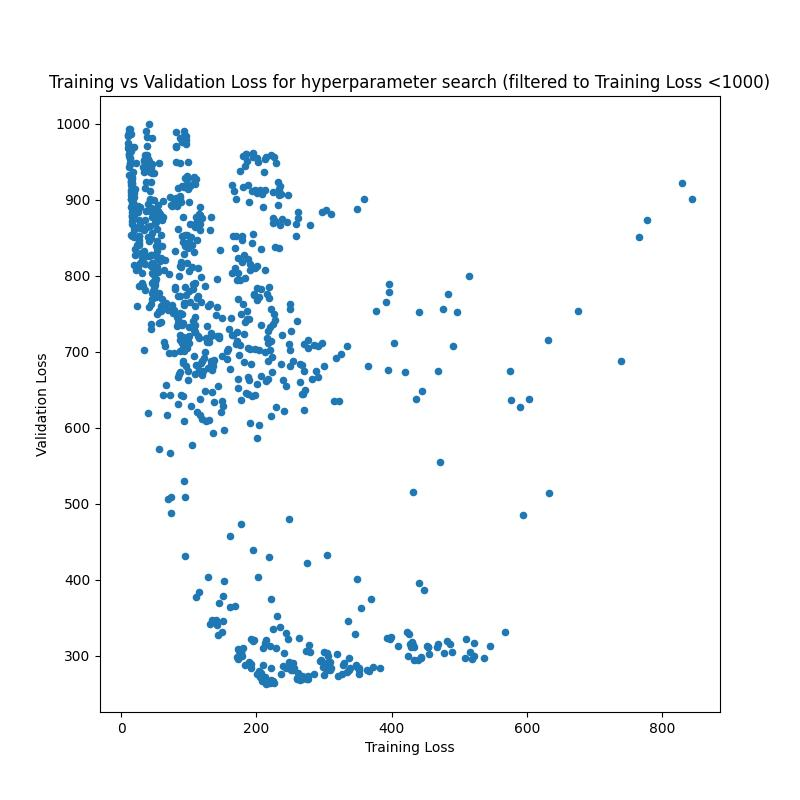
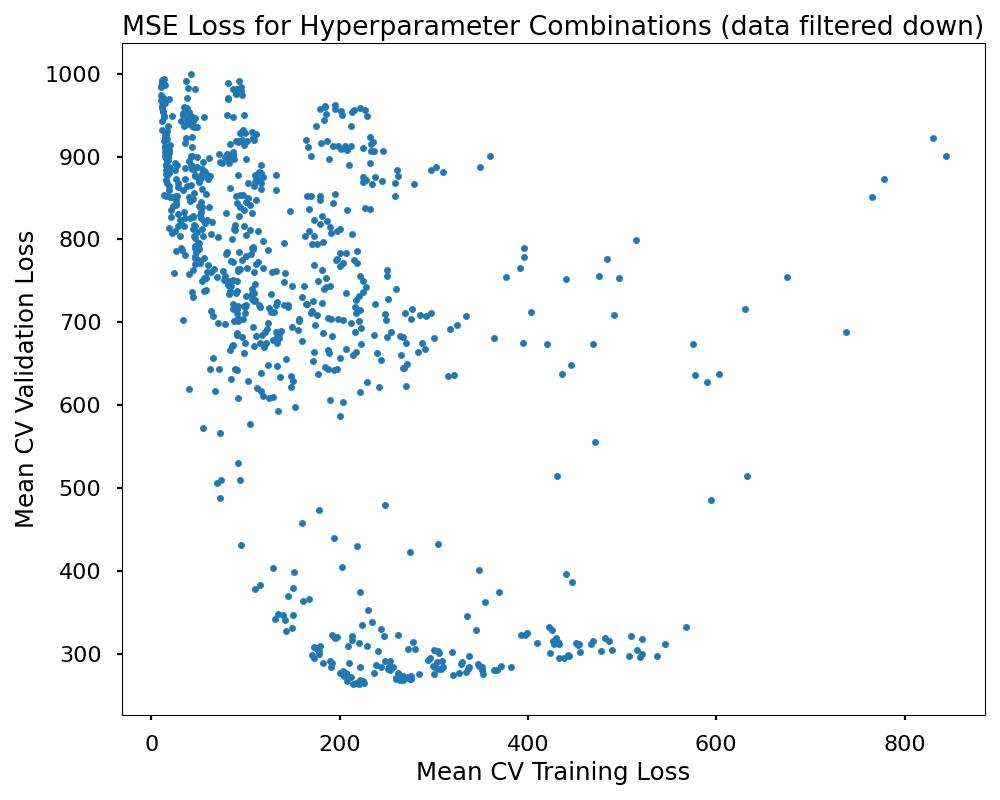
Finish hyperparam search and model selection sections of readme

diff --git a/Model_selection.py b/Model_selection.py
@@ -1,11 +1,10 @@
-
 import pandas as pd
-
 import matplotlib.pyplot as plt
+import seaborn as sns
 
-##########
+plt.style.use("seaborn-v0_8-poster")
+
 # Load back in the results
-##########
 df = pd.read_csv("../Data/hyper_param_results.csv")
 df.head()
 
@@ -14,11 +13,12 @@ df_filtered = df[df['Mean_fold_Vloss'] < 1000]
 df_filtered.reset_index()
 
 # scatter train and val loss
-plt.figure(figsize=(8,8))
+plt.figure(figsize=(10,8))
 plt.scatter(x=df["Mean_fold_Tloss"], y=df["Mean_fold_Vloss"], s=20)
-plt.title("Training vs Validation Loss for hyperparameter search")
-plt.xlabel("Training Loss")
-plt.ylabel("Validation Loss")
+plt.title("MSE Loss for Hyperparameter Combinations")
+plt.xlabel("Mean CV Training Loss")
+plt.ylabel("Mean CV Validation Loss")
+plt.tight_layout()
 plt.savefig("./figs/search_results_all.jpg")
 plt.show()
 
@@ -27,11 +27,12 @@ plt.show()
 df_filtered = df[df['Mean_fold_Vloss'] < 1000]
 df_filtered.reset_index()
 # scatter train and val loss
-plt.figure(figsize=(8,8))
+plt.figure(figsize=(10,8))
 plt.scatter(x=df_filtered["Mean_fold_Tloss"], y=df_filtered["Mean_fold_Vloss"], s=20)
-plt.title("Training vs Validation Loss for hyperparameter search (filtered to Training Loss <1000)")
-plt.xlabel("Training Loss")
-plt.ylabel("Validation Loss")
+plt.title("MSE Loss for Hyperparameter Combinations (data filtered down)")
+plt.xlabel("Mean CV Training Loss")
+plt.ylabel("Mean CV Validation Loss")
+plt.tight_layout()
 plt.savefig("./figs/search_results_filtered.jpg")
 plt.show()
 
@@ -41,11 +42,12 @@ df_possible = df[df['Mean_fold_Vloss'] < 300]
 df_possible = df_possible[df_possible['Mean_fold_Tloss'] < 300]
 df_possible.reset_index()
 # scatter train and val loss
-plt.figure(figsize=(8,8))
+plt.figure(figsize=(10,8))
 plt.scatter(x=df_possible["Mean_fold_Tloss"], y=df_possible["Mean_fold_Vloss"], s=50)
-plt.title("Training vs Validation Loss for hyperparameter search (filtered to Training and Val Loss <300)")
-plt.xlabel("Training Loss")
-plt.ylabel("Validation Loss")
+plt.title("MSE Loss for Hyperparameter Combinations (data filtered down)")
+plt.xlabel("Mean CV Training Loss")
+plt.ylabel("Mean CV Validation Loss")
+plt.tight_layout()
 plt.savefig("./figs/search_results_possible.jpg")
 plt.show()
 
@@ -54,18 +56,40 @@ df_id = df[df['Mean_fold_Vloss'] < 280]
 df_id = df_id[df_id['Mean_fold_Tloss'] < 280]
 df_id.reset_index()
 # scatter train and val loss
-plt.figure(figsize=(8,8))
+plt.figure(figsize=(10,8))
 plt.scatter(x=df_id["Mean_fold_Tloss"], y=df_id["Mean_fold_Vloss"], 
             s=(df_id["SD_fold_Tloss"]**1.75),
             c=df_id["SD_fold_Vloss"])
 for i, (x, y) in df_id[["Mean_fold_Tloss", "Mean_fold_Vloss"]].iterrows():
     plt.text(x, y, str(i), fontsize=8, ha="center", va="center", fontweight="bold", color="white")
-plt.title("Model index values - selecting best model params")
-plt.xlabel("Training Loss")
-plt.ylabel("Validation Loss")
+plt.title("Training and Validation Mean Loss and SD")
+plt.xlabel("Mean CV Training Loss")
+plt.ylabel("Mean CV Validation Loss")
 plt.colorbar()
+plt.tight_layout()
 plt.savefig("./figs/search_results_indexed_models.jpg", dpi=300)
 plt.show()
+
+# scatter without index values
+plt.figure(figsize=(10,8))
+sc = plt.scatter(x=df_id["Mean_fold_Tloss"], 
+                 y=df_id["Mean_fold_Vloss"], 
+                 s=(df_id["SD_fold_Tloss"]**1.75),
+                 c=df_id["SD_fold_Vloss"])
+plt.title("Training and Validation Mean Loss and SD")
+plt.xlabel("Mean CV Training Loss")
+plt.ylabel("Mean CV Validation Loss")
+plt.text(0.5, 0.95, 
+         "Dot size = Training loss SD; Color = Validation loss SD", 
+         transform=plt.gca().transAxes, 
+         ha="center")
+cbar = plt.colorbar(sc)
+cbar.set_ticks([])
+cbar.set_label("Validation loss SD")
+plt.tight_layout()
+plt.savefig("./figs/search_results_mean_and_sd.jpg", dpi=300)
+plt.show()
+
 
 # filter to best param combos
 best_models_idx = [436, 620, 112, 296, 180,

diff --git a/README.md b/README.md
@@ -132,8 +132,8 @@ When I include just 4 layers that work down from 7568 > 2500 > 1000 > 100 > 1, t
 the model tends to train just fine. This is the set-up I will use when searching 
 for appropriate hyperparameters.  
 
-When training and evaluating MSE on the entire dataset, this initial model-building step
- had a loss of 295.6! Performance might not be incredible, but at least it is not 
+When training and evaluating MSE on the entire dataset, this initial model-building 
+step had a loss of 295.6! Performance might not be incredible, but at least it is not 
  immediately overfitting to the data...  
 
 **Figure 5.** MSE loss over epochs for this initial neural network.  
@@ -170,7 +170,8 @@ regardless of batch size.
 **Early stopping:**  
 I also included an early stopping criteria in the model training. If validation 
 loss did not increase by a minimum ammount (delta) over a number of consecutive 
-training epochs (patience), then the training loop was terminated. The pre-set delta was 5 points, so the model had to improve validation loss by 5 points to reset the 
+training epochs (patience), then the training loop was terminated. The pre-set delta was 5 points, 
+so the model had to improve validation loss by 5 points to reset the 
 patience counter. If the patience counter was not reset after 15 epochs (i.e., 
 after 15 epochs, the model had not improved validation loss by 5 points or more), 
 then the training loop was terminated. The patience value of 15 epochs was also 
@@ -180,7 +181,8 @@ Training and validation loss plots over epochs were maintained for each
 hyperparameter combination. Rather than save a plot for every model in CV (6 models 
 per hyperparam combo), I just saved the model loss plots for the final CV fold.  
 
-**Figure 6.** Training and validation loss plots for two models with different hyperparameter combinations. THe first is a model trained for the full 300 epochs, 
+**Figure 6.** Training and validation loss plots for two models with different 
+hyperparameter combinations. THe first is a model trained for the full 300 epochs, 
 but did not reach convergence. The second model had more aggressive gradient 
 clipping and met early stopping criteria after ~75 epochs of training.  
 <img src="./grid_search_figs/loss_combo0.png" width=300>
@@ -188,11 +190,68 @@ clipping and met early stopping criteria after ~75 epochs of training.
 
 ### Model selection
 
-describe selection process
-show plots for all the models
+I used mean training and validation MSE Loss across CV folds 
+to determine which models were performing the best. The top 
+10 performing models would be included in later ensemble 
+learning tasks. The decision to keep 10 models was arbitrary. 
+A next step in this project might be evaluating different 
+combinations of models to determine which are best in ensemble 
+learning tasks.  
 
-Below are training and loss plots from all 10 models selected for the ensemble approach.  
+**Figure 7.** The mean training and validation losses for each 
+model across the 6-folds in cross-validation. Most models have 
+training and validation losses below 1,000. A few models failed 
+to identify patterns in the data and thus have high loss. In the 
+next plot, I filter out those poor performing models.  
+<img src="./figs/search_results_all.jpg" width=300>
+<br>
 
+**Figure 8.** The same mean training and validation losses for 
+models, but I filtered the list to only include those with a 
+validation loss less than 1,000. We are again seeing a pattern 
+where a majority of models are overfitting to the training data 
+and failing to generalize to the validation sets (cluster 
+of points in the upper left of the plot). But a handful of models 
+are performing well in both training and validation sets 
+(smaller cluster of models in the bottom center of the plot). 
+Those models might be good candidates for ensemble learning.    
+<img src="./figs/search_results_filtered.jpg" width=400>
+<br>
+
+**Figure 9.** If we filter down even further to just models with 
+a training *and* validation loss of below 300, then we can see 
+a handful of models that are performing well in both sets of 
+data.  
+<img src="./figs/search_results_possible.jpg" width=400>
+<br>
+
+I selected the best 10 models to use in my ensemble learning. In 
+the future, I might explore different model types to include in 
+the ensemble, but for this initial start I just chose the best 
+10 models.  
+
+To identify the best 10 models, I evaluated the mean training 
+and validation losses across CV folds. I also considered the 
+standard deviation of the training and validation losses across 
+folds. An ideal model would have low but comparable losses in 
+training and validation (i.e., not grossly overfitting to the 
+training data), and would have a low standard deviation for 
+the loss in the validation set (i.e., relatively stable 
+performance across data validation splits).  
+
+**Figure 10.** Training and loss performance for each model 
+being considered for ensemble learning. The mean training and 
+validation losses are plotted on the X and Y axes, respectively. 
+The size of the dot represents the SD for training loss, and the 
+color of the dot represents the SD for validation loss. I am 
+looking for dots that are smaller (lower training SD), darker 
+(lower validation SD), and closer to the bottom left corner of 
+the plot.  
+<img src="./figs/search_results_mean_and_sd.jpg" width=600>
+<br>
+
+Based on these criteria, I selected 10 models to use in ensemble 
+learning. Below are training and loss plots for all 10 models selected:    
 <img src="./grid_search_figs/loss_combo2.png" width=100>
 <img src="./grid_search_figs/loss_combo8.png" width=100>
 <img src="./grid_search_figs/loss_combo_momentumfix0.png" width=100>
@@ -203,6 +262,7 @@ Below are training and loss plots from all 10 models selected for the ensemble a
 <img src="./grid_search_figs/loss_combo32.png" width=100>
 <img src="./grid_search_figs/loss_combo_momentumfix6.png" width=100>
 <img src="./grid_search_figs/loss_combo_momentumfix11.png" width=100>
+<br>
 
 ### Ensemble approaches
 describe ensemble approaches
